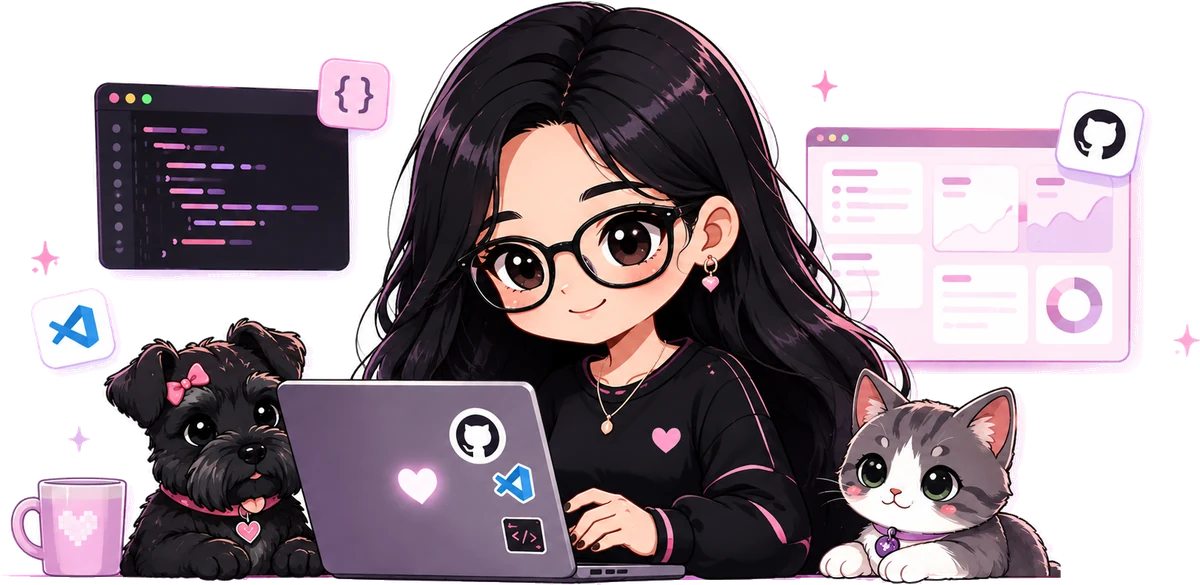
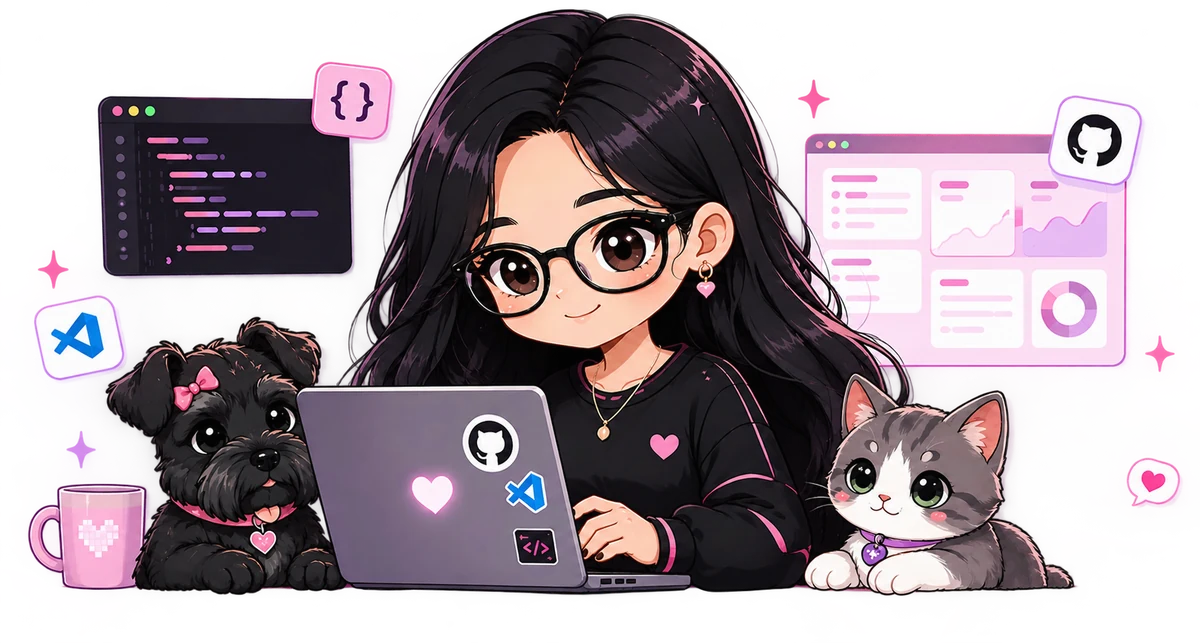
Ilustración nueva con el globito de corazón

diff --git a/js/app.js b/js/app.js
@@ -151,7 +151,7 @@
         <div class="hero-vis" aria-hidden="true">
           <div class="halo"></div>
           <span class="estrella e1">${ico("i-star")}</span><span class="estrella e2">${ico("i-star")}</span>
-          <img class="ilustracion" src="assets/marca/ilustracion.webp" alt="" width="1200" height="585" fetchpriority="high">
+          <img class="ilustracion" src="assets/marca/ilustracion.webp" alt="" width="1200" height="643" fetchpriority="high">
         </div>
       </div>
     </section>
